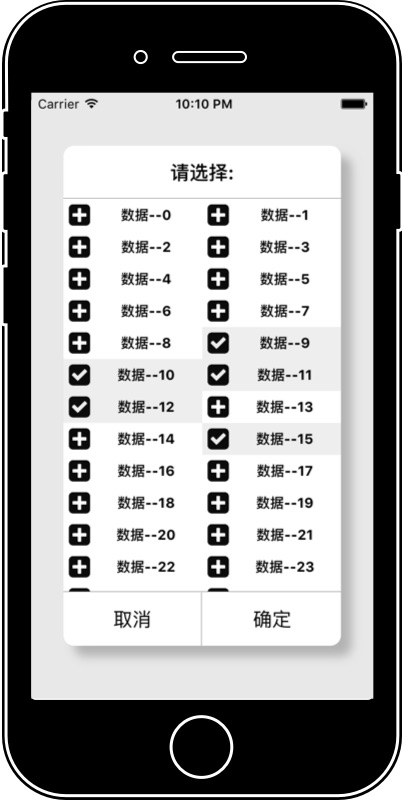
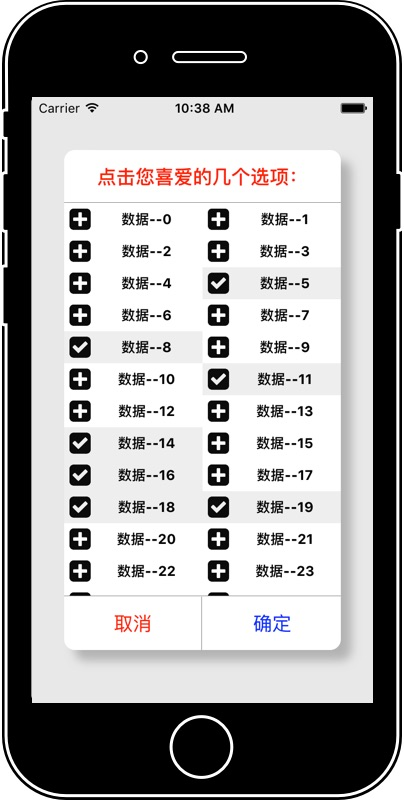
修改展示图

Changed region(s): [[0.1485, 0.1875, 0.8317, 0.8125], [0.0891, 0.0938, 0.9208, 0.1562], [0.0891, 0.875, 0.9208, 0.9062]]

diff --git a/README.md b/README.md
@@ -19,10 +19,6 @@
 JYSelectView *view = [[JYSelectView alloc]initWithTitleArray:arr
                                                        style:JYSingleSelect
                                                     animated:YES];
-view.hintInfo = @"点击您喜爱的几个选项：";
-view.hintInfoColor = [UIColor redColor];
-view.okButtonColor = [UIColor blueColor];
-view.cancelButtonColor = [UIColor redColor];
 [self.view addSubview:view];
 
 ```
@@ -31,7 +27,7 @@ view.cancelButtonColor = [UIColor redColor];
 ![JYSelectView](https://github.com/Job-Yang/JYSelectView/blob/master/ScreenShots/JYSingleSelect.jpg)
 
 
-#### 带Block的创建方法
+#### 带Block且自定义风格的创建方法
 
 ```objc
 //数据源
@@ -47,6 +43,10 @@ view.cancelButtonColor = [UIColor redColor];
                                              completionHandler:^{
                                                // 点击确定时执行
                                              }];
+  view.hintInfo = @"点击您喜爱的几个选项：";
+  view.hintInfoColor = [UIColor redColor];
+  view.okButtonColor = [UIColor blueColor];
+  view.cancelButtonColor = [UIColor redColor];
   [self.view addSubview:view];
 
 ```
